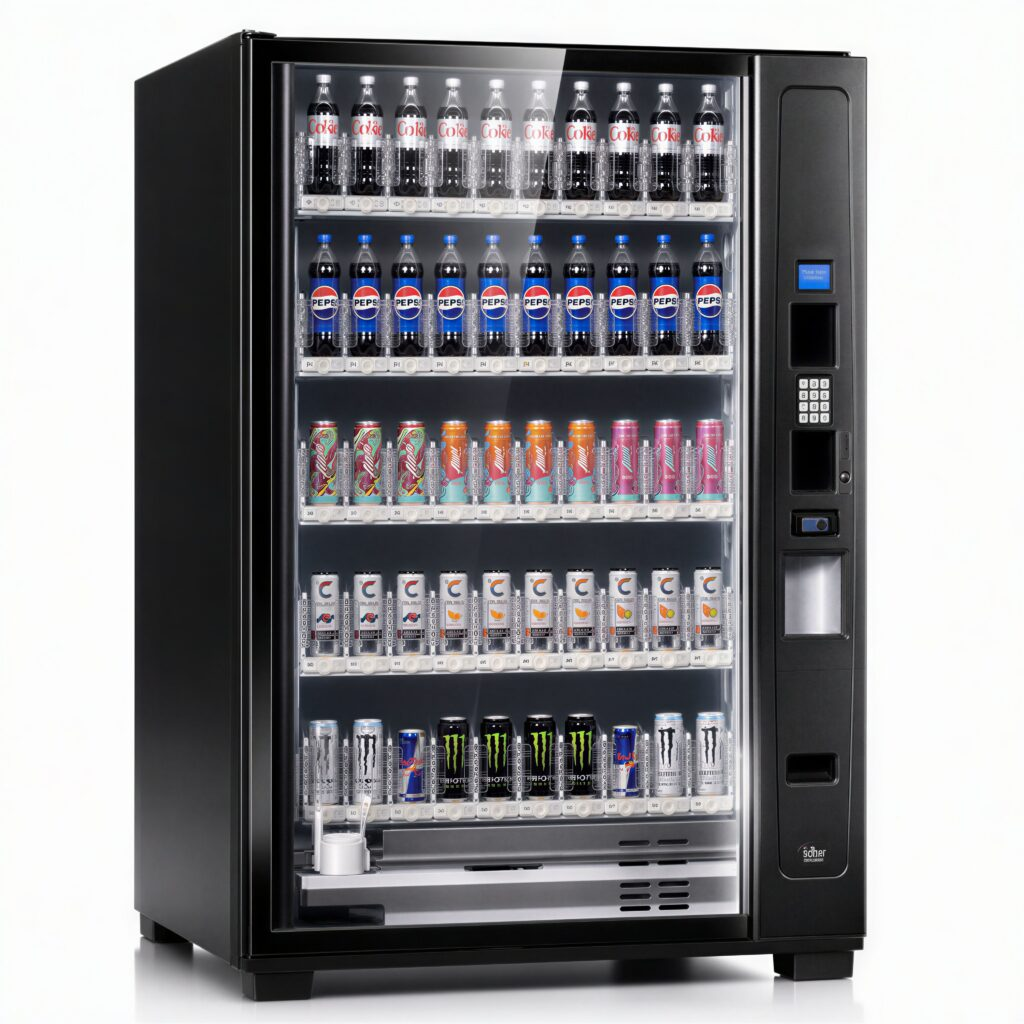
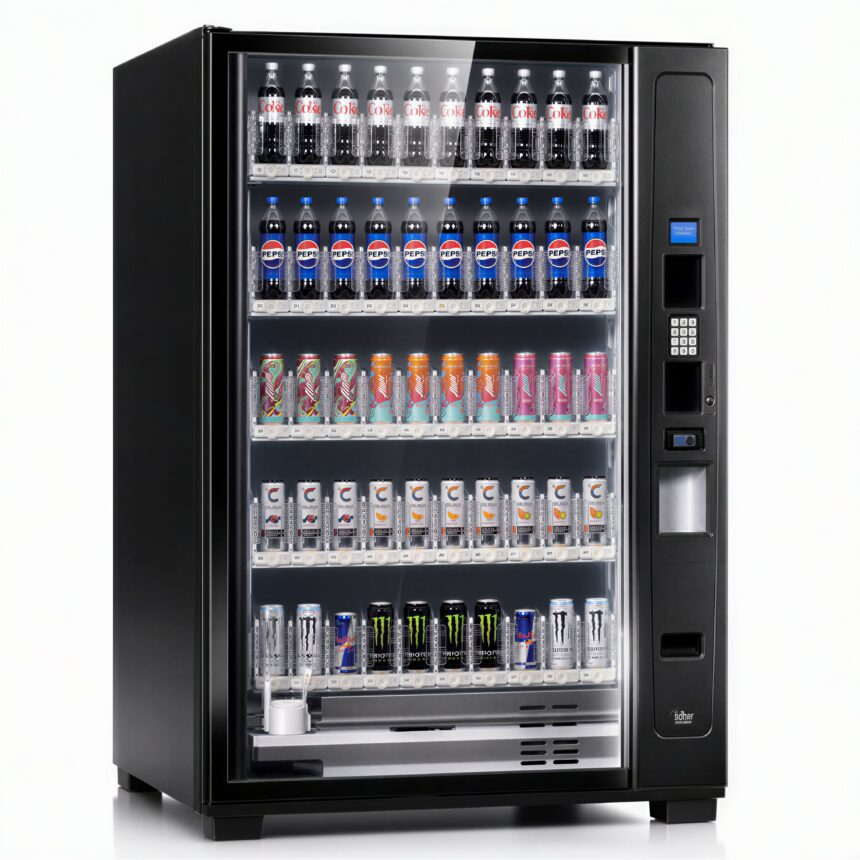
Move Alpine Combi 3000 under USI; remove Alpine brand
Alpine is USI's frozen food machine line sold under a different
name. Rebrand to USI Combi 3000 and remove the Alpine filter tab
entirely, the only product. Also includes the updated higher-res
GFV-400 product photo from the previous change.

diff --git a/app/vending-machines/page.js b/app/vending-machines/page.js
@@ -27,7 +27,7 @@ const MACHINES = [
   { id: 'evokelift', category: 'combo', brand: 'USI', name: 'Evoke Elevator Food & Beverage', desc: 'Soft-elevator delivery for fresh food and fragile items', specs: ['60 selections', 'Soft elevator', 'FIFO loading'], price: '$10,929', img: '/static-assets/vvs_product_catalog/images/evoke-elevator-food-beverage-vending-machine-2.jpg', badgeCombo: true },
   { id: 'evokecombo', category: 'combo', brand: 'USI', name: 'USI Evoke ST5 Combo', desc: 'Eye-catching state-of-the-art combo, lowest cost of ownership', specs: ['Snack + cold drink', 'Refrigerated', 'ADA compliant'], price: '$8,378', img: '/static-assets/vvs_product_catalog/images/usi-evoke-st5-combo-vending-machine-2.jpg', badgeCombo: true },
   { id: 'ams39combo', category: 'combo', brand: 'AMS', name: 'AMS 39 Combo Machine', desc: 'Ideal for smaller locations and cost-conscious operators', specs: ['Snack + drink', 'Rugged build', 'Cost-effective'], price: '$5,999', img: '/static-assets/vvs_product_catalog/images/ams-39-combo-vending-machine-2.jpg', badgeCombo: true },
-  { id: 'alpinecombi3000', category: 'combo', brand: 'Alpine', name: 'Alpine Combi 3000', desc: 'Frozen food and beverage combo, expand your revenue per location', specs: ['Frozen + drinks', 'Combo unit', 'High margin'], price: '$11,661', img: '/static-assets/vvs_product_catalog/images/alpine-combi-3000-1.png', badgeCombo: true },
+  { id: 'usicombi3000', category: 'combo', brand: 'USI', name: 'USI Combi 3000', desc: 'Frozen food and beverage combo, expand your revenue per location', specs: ['Frozen + drinks', 'Combo unit', 'High margin'], price: '$11,661', img: '/static-assets/vvs_product_catalog/images/usi-combi-3000-1.png', badgeCombo: true },
   { id: 'evoke10drink', category: 'beverage', brand: 'USI', name: 'Evoke Ten Drink', desc: 'High-capacity cold drink machine for cans and bottles', specs: ['10 selections', 'Refrigerated', 'High volume'], price: '$6,114', img: '/static-assets/vvs_product_catalog/images/evoke-10-drink-1.png', badgeBev: true },
   { id: 'dixie501e', category: 'beverage', brand: 'Dixie Narco', name: 'Dixie Narco 501E', desc: 'The workhorse of the vending world, legendary reliability', specs: ['72"H x 37"W', 'Cans & bottles', 'Easy service'], price: '$2,099', img: '/static-assets/vvs_product_catalog/images/dixie-narco-501e-2.jpg', badgeBev: true },
   { id: 'coolblu', category: 'beverage', brand: 'CoolBlu', name: 'CoolBlu Cooler', desc: 'High-capacity refrigerated cooler for fresh food and cold drinks', specs: ['High capacity', 'Fresh food ready', 'Cashless pay'], price: '$2,499', img: '/static-assets/vvs_product_catalog/images/coolblu-coolers-2.jpg', badgeBev: true },
@@ -49,7 +49,6 @@ const BRAND_FILTERS = [
   { key: 'all', label: 'All Brands' },
   { key: 'USI', label: 'USI' },
   { key: 'AMS', label: 'AMS' },
-  { key: 'Alpine', label: 'Alpine' },
   { key: 'Dixie Narco', label: 'Dixie Narco' },
   { key: 'CoolBlu', label: 'CoolBlu' },
 ];
